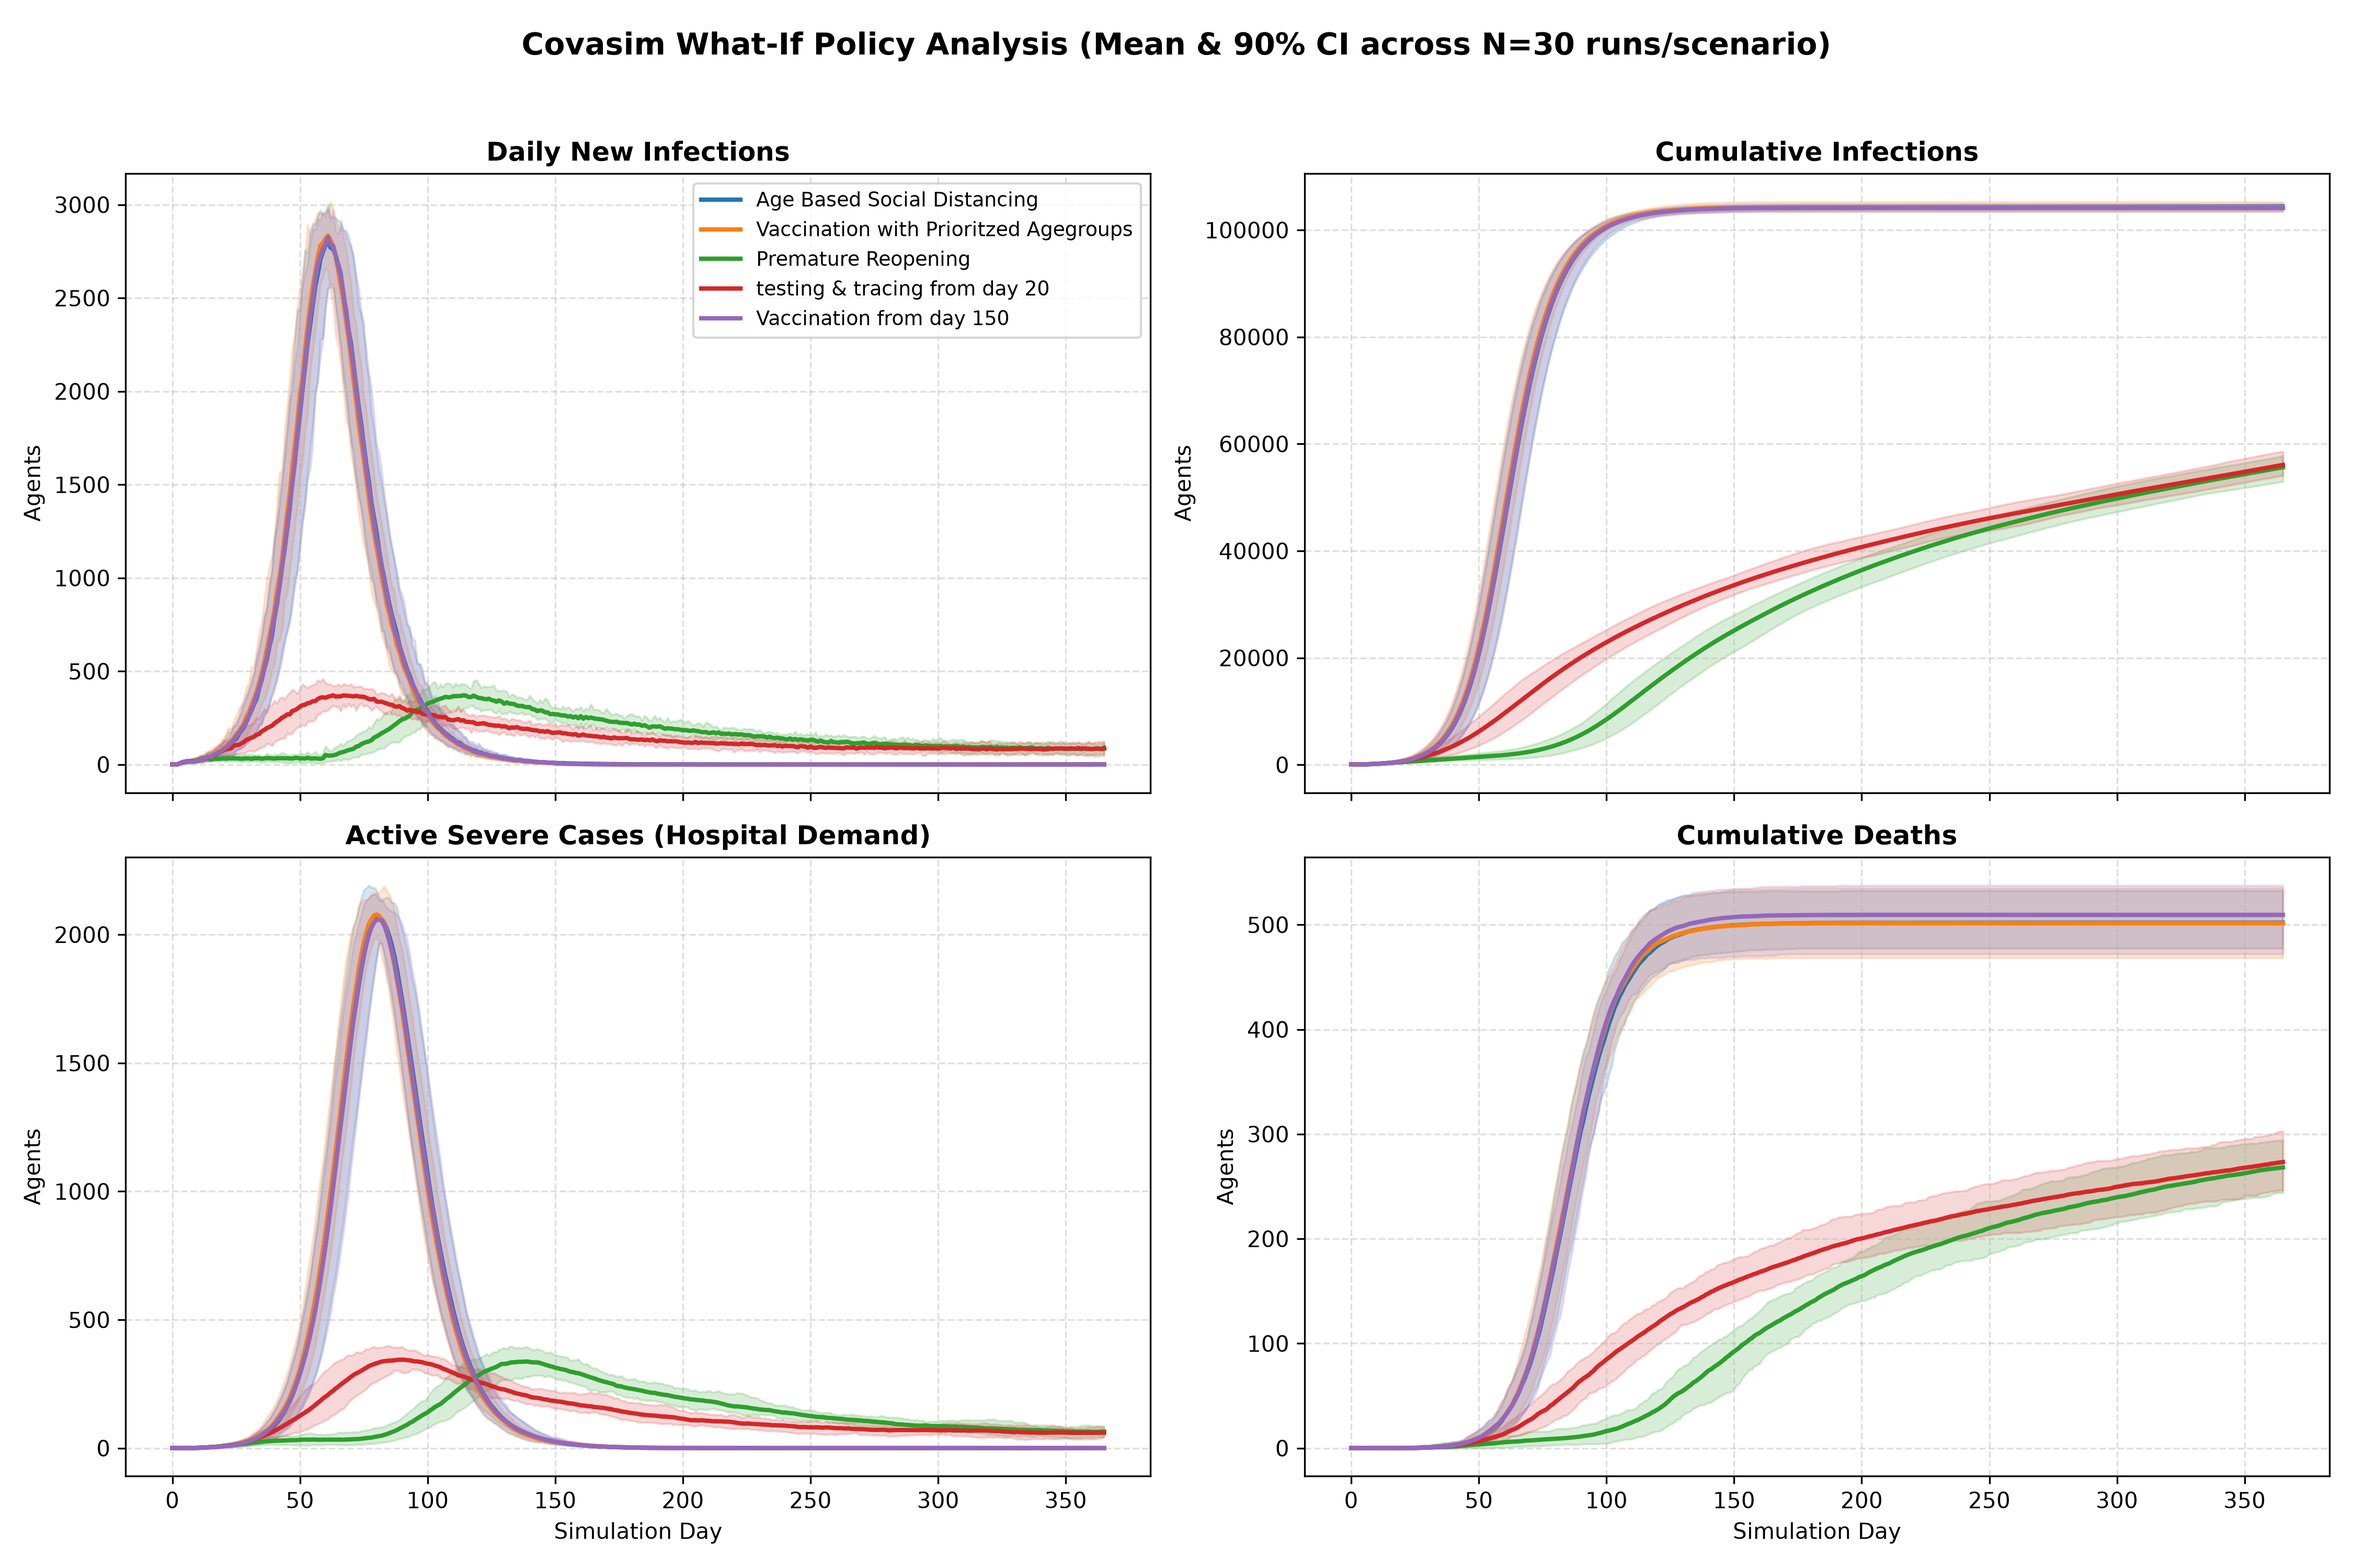
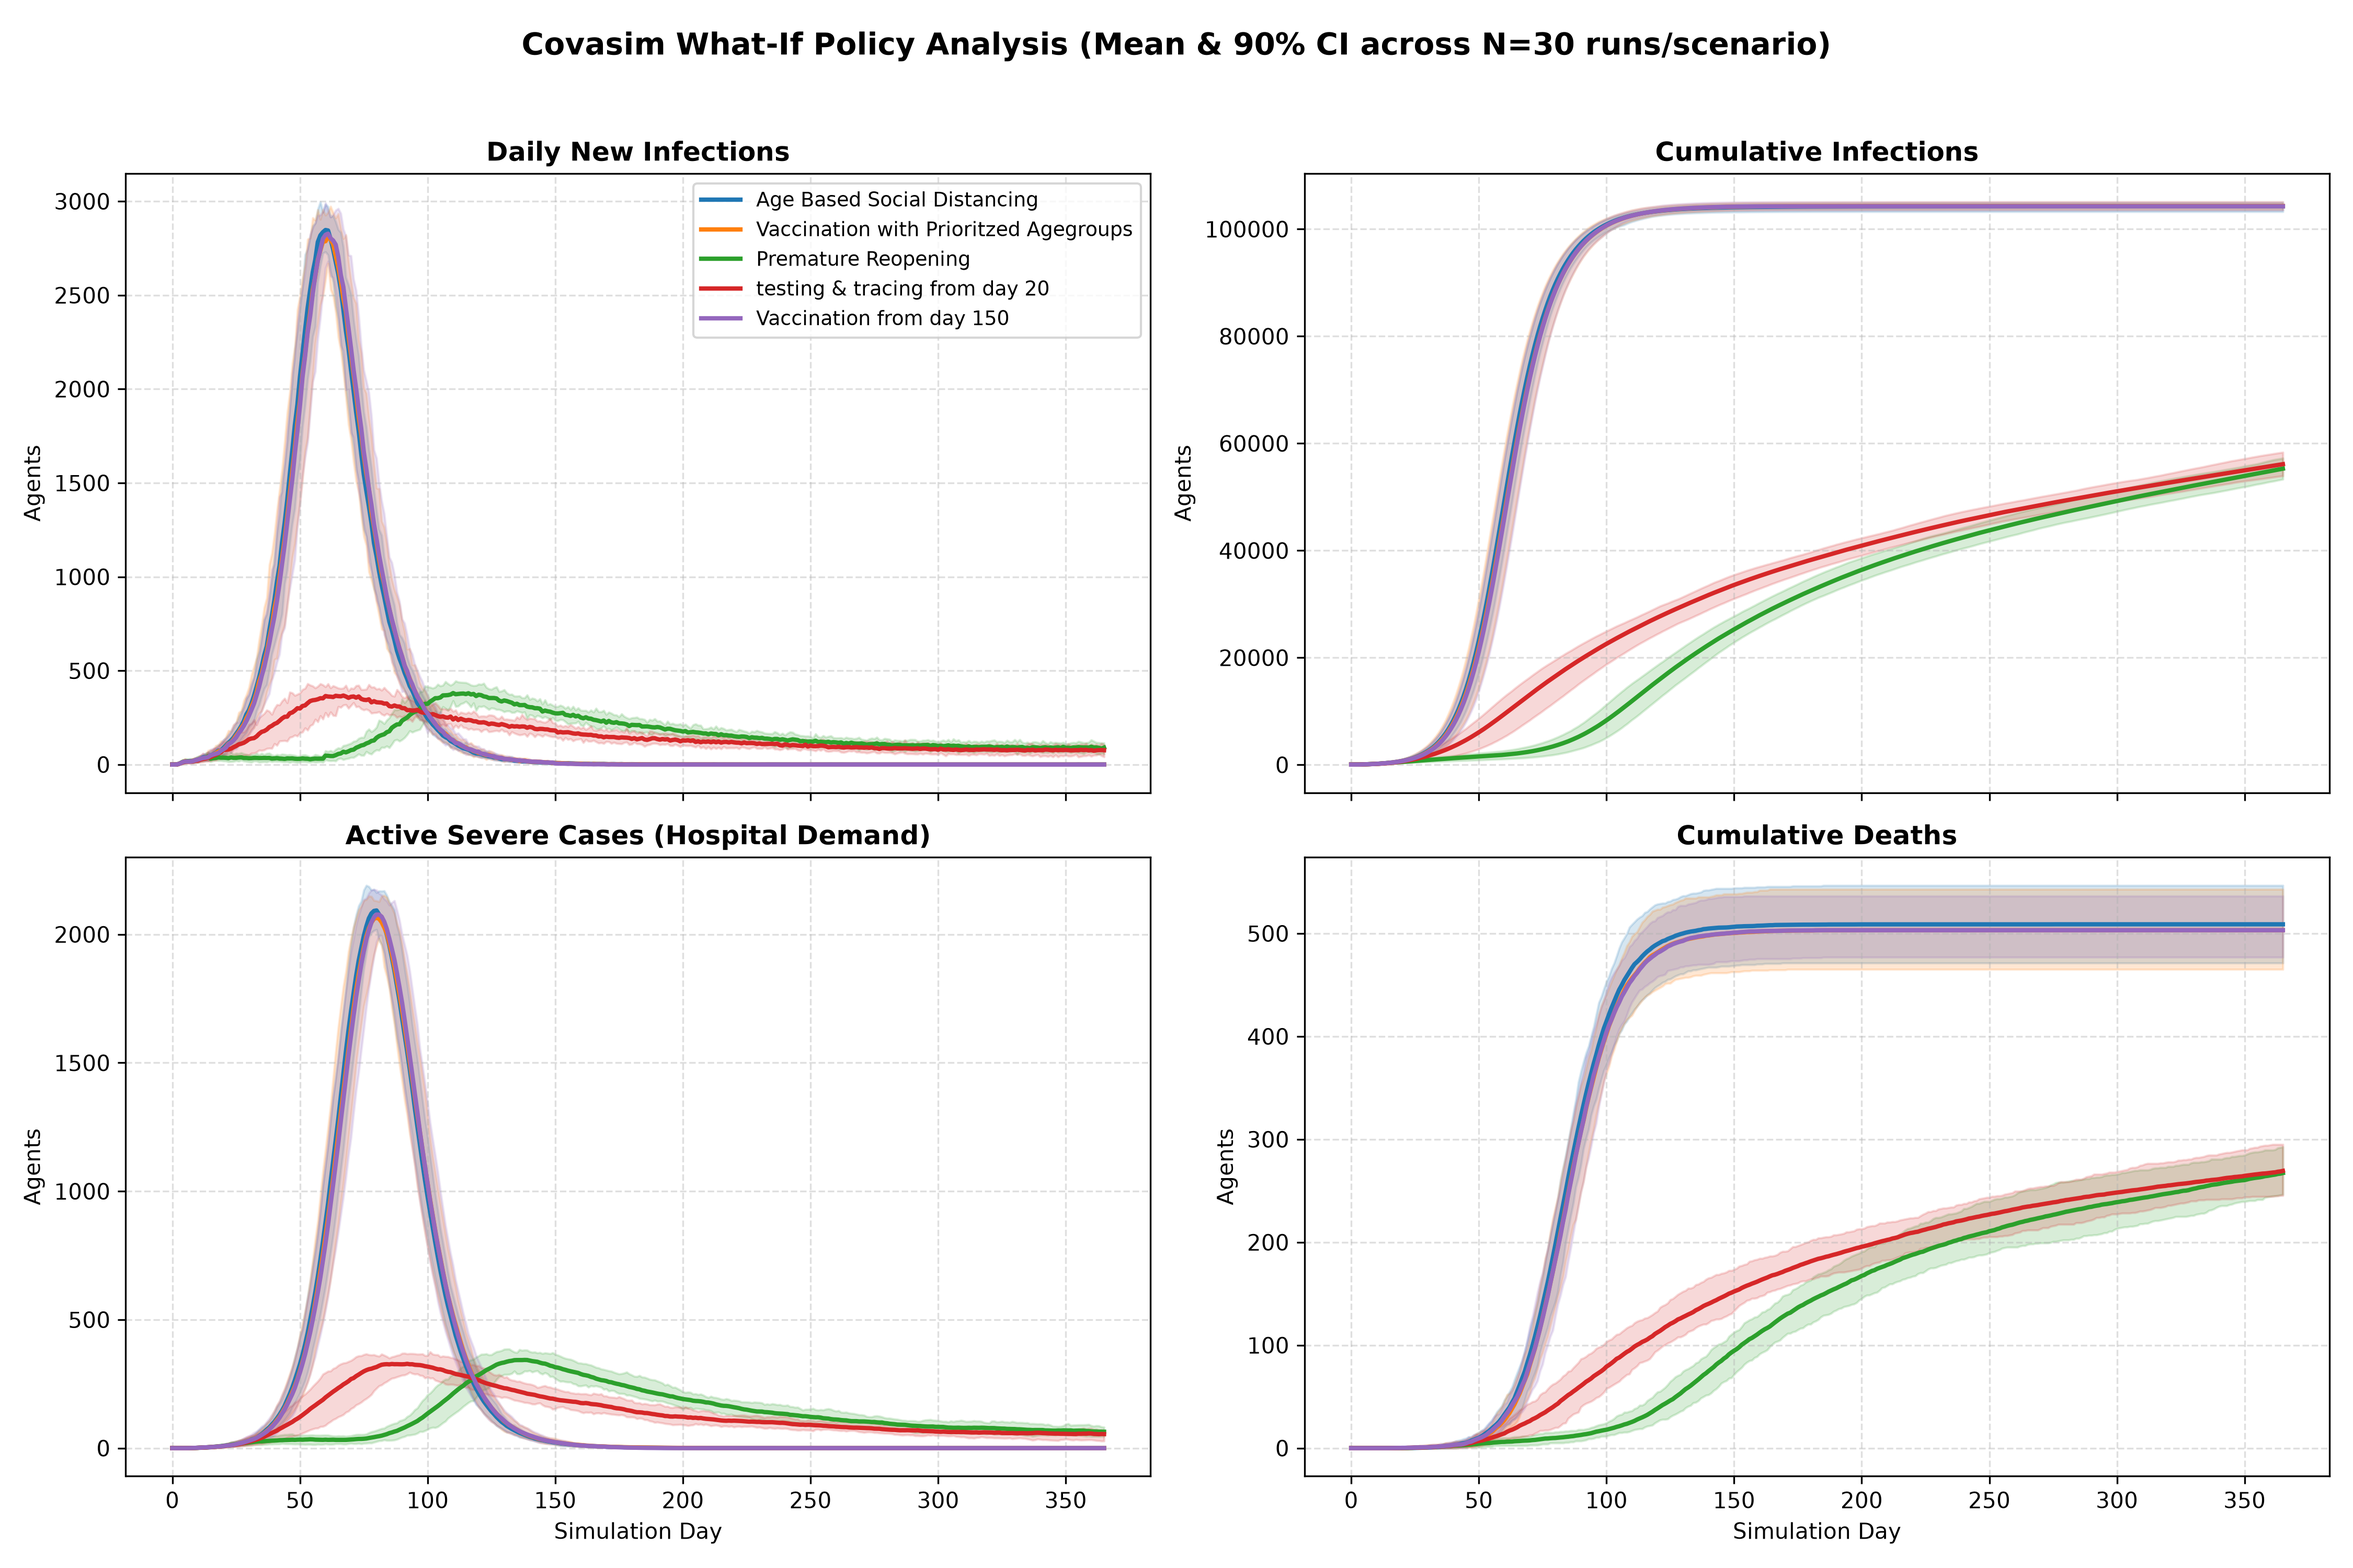
scen2 is with different probs

diff --git a/M2/scenarios.py b/M2/scenarios.py
@@ -146,8 +146,8 @@ def vaccinate_by_age(sim):
     # Assign vaccination probabilities
     vals = np.concatenate([
         np.full(len(young), 0.9),   # 90% for under 19
-        np.full(len(middle), 0.5),  # 50% for 19-74
-        np.full(len(old), 0.9)      # 90% for 75+
+        np.full(len(middle), 0.1),  # 50% for 19-74
+        np.full(len(old), 0.1)      # 90% for 75+
     ])
     output = dict(inds=inds, vals=vals)
     return output
